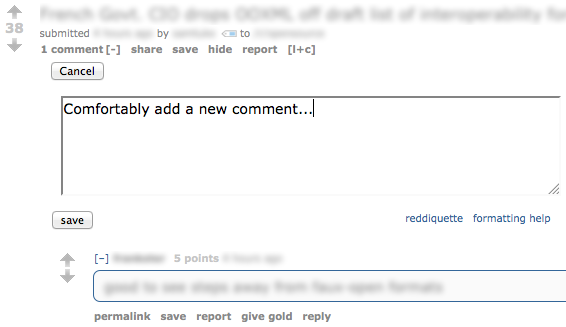
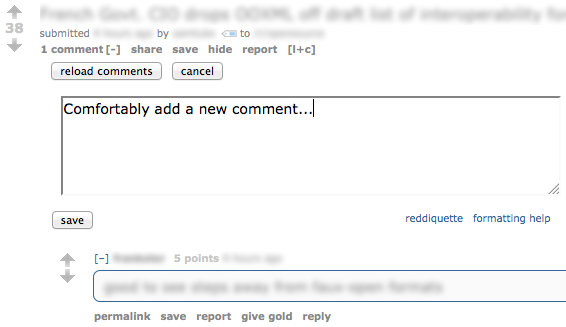
Add changelog to readme and update screenshots

Changed region(s): [[0.0901, 0.1835, 0.3905, 0.2446]]

diff --git a/README.md b/README.md
@@ -4,11 +4,11 @@ Reddit Plus is a userscript for Reddit that adds additional features to simplify
 
 It's a work in progress, adding features as I go. Feel free to join in and add useful features, making Reddit Plus the ultimate userscript for Reddit.
 
-You can safely use it as an addition to the [Reddit Enhancement Suite (RES)](https://www.reddit.com/r/Enhancement) if you have that installed too.
+You can safely use it in addition to the [Reddit Enhancement Suite (RES)](https://www.reddit.com/r/Enhancement) if you have that installed too.
 
 ![Reddit Plus Logo][reddit-plus-logo]
 
-- Version: 1.0
+- Version: 1.1
 - Short-Link for sharing: [j.mp/reddit-plus](https://j.mp/reddit-plus)
 - Disclaimer: Reddit Plus userscript is in no way affiliated with Reddit Inc.
 
@@ -31,9 +31,9 @@ Here's a list of currently available features:
 If you are an active Redittor you will know what it's like, having to open a post only to read a handful of comments. *What a drag...*
 
 With the comments toggle it's now possible to open comments in the list view with just 1 click, loading them right beneath the post. In the same way that you can easily expand the description text of a post you can now load the comments.
-In this added view, you can vote, write a new comment and reply to any existing comments, just like that.
+In this added view, you can vote, write a new comment and reply to any existing comments, just like that. If you want to stay up to date with the new comments being added, simply **reload comments** with a single click
 
-*Next to each `comments` link of each post in a list view, you can now find a little `[+]` button, give it a go!*
+*Next to each* **`comment(s)`** *link of each post in a list view, you can now find a little* **`[+]`** *button, give it a go!*
 
 ![Toggle to open / close comments][comments-toggle]
 
@@ -41,7 +41,7 @@ In this added view, you can vote, write a new comment and reply to any existing 
 
 ![Loaded comments displayed below the post][comments-opened]
 
-*Easily write a new comment by clicking the `Add new comment` button.*
+*Easily write a new comment by clicking the* **`add new comment`** *button.*
 
 ![Writing a new comment][comment-new]
 
@@ -51,7 +51,7 @@ In this added view, you can vote, write a new comment and reply to any existing 
 
 -
 
-There is still 1 known issue with this feature at the moment:
+***There is still 1 known issue with this feature at the moment:***
 - When voting on a post with the comments opened, it looks as if all comments have been voted on too (vote button turned orange), but that is NOT the case, it's just a visual change, not an actual vote. This is due to the way that Reddit handles voting and I can't do anything about it just yet.
 
 ---
@@ -84,6 +84,18 @@ Well, if you really insist, go ahead =)
 
 - Bitcoin: 1HEJZmLdayFoHrXdWe7LDnFjxZznUDaz9R
 - [PayPal](https://www.paypal.com/cgi-bin/webscr?cmd=_donations&business=armando%40noplanman%2ech&item_name=Reddit%20Plus%20Donation)
+
+##Changelog
+
+###Version 1.1
+
+- Add functionality to reload comments without having to reload the page.
+- Don't show comments expand button on the single post page.
+- Various little code alterations and text corrections.
+
+###Version 1.0
+
+- Initial version, adding only a button to expand the comments of a each post in a list view.
 
 
 [reddit-plus-logo]: https://raw.githubusercontent.com/noplanman/Reddit-Plus/master/assets/logo/256-full.png   "Reddit Plus Logo"
